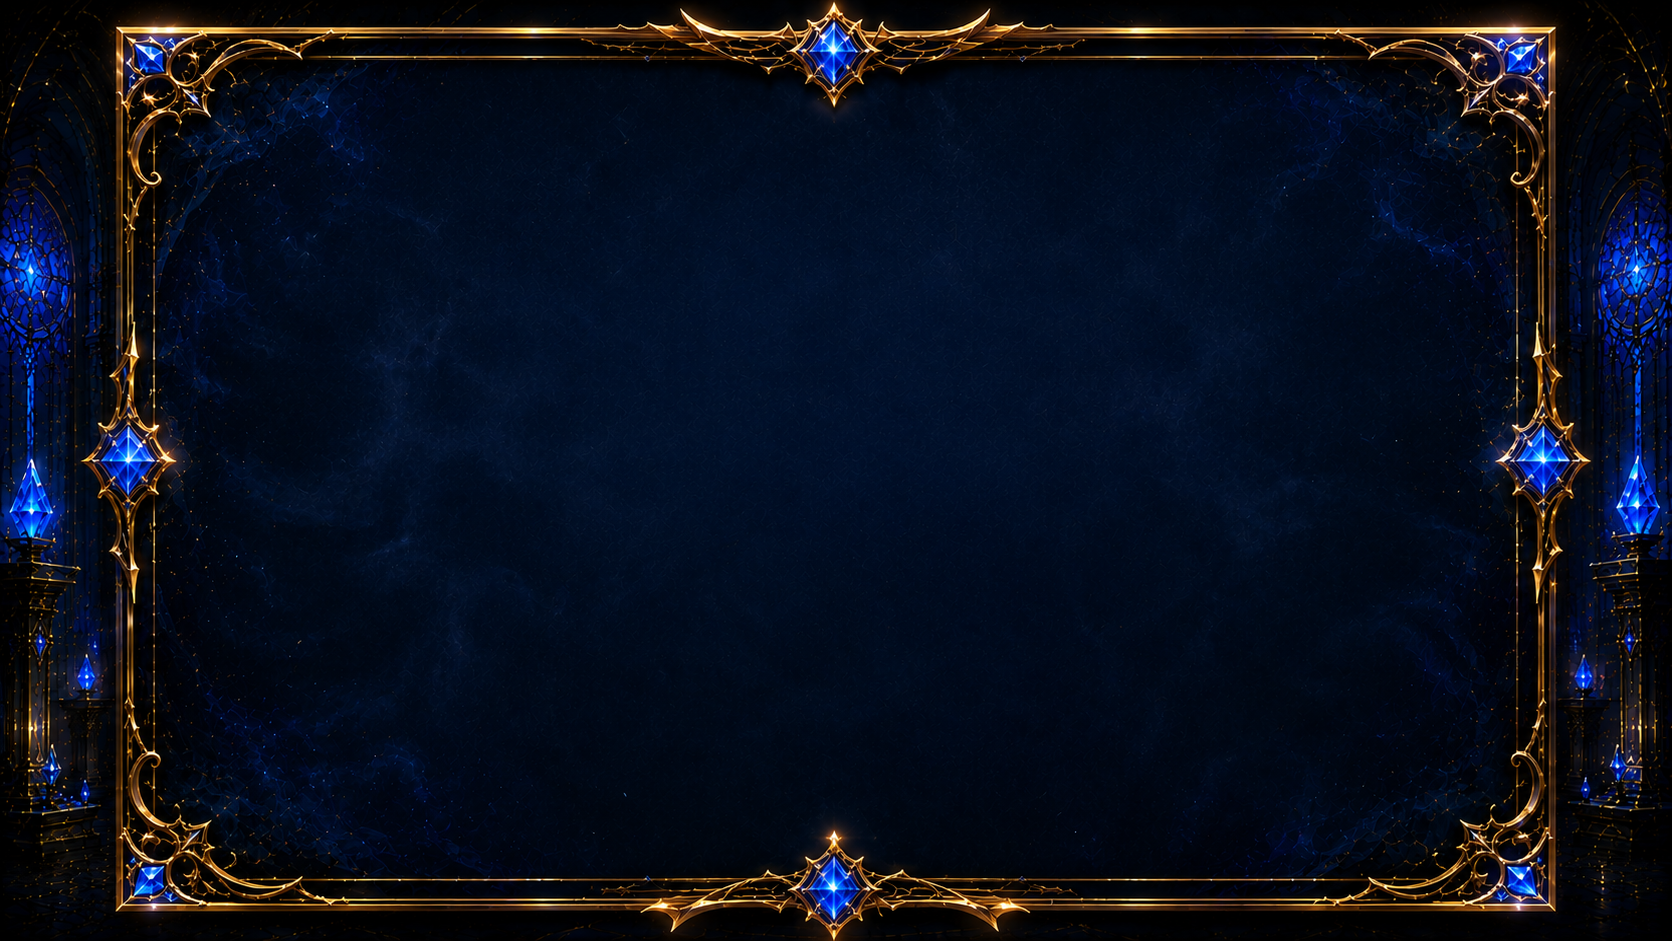
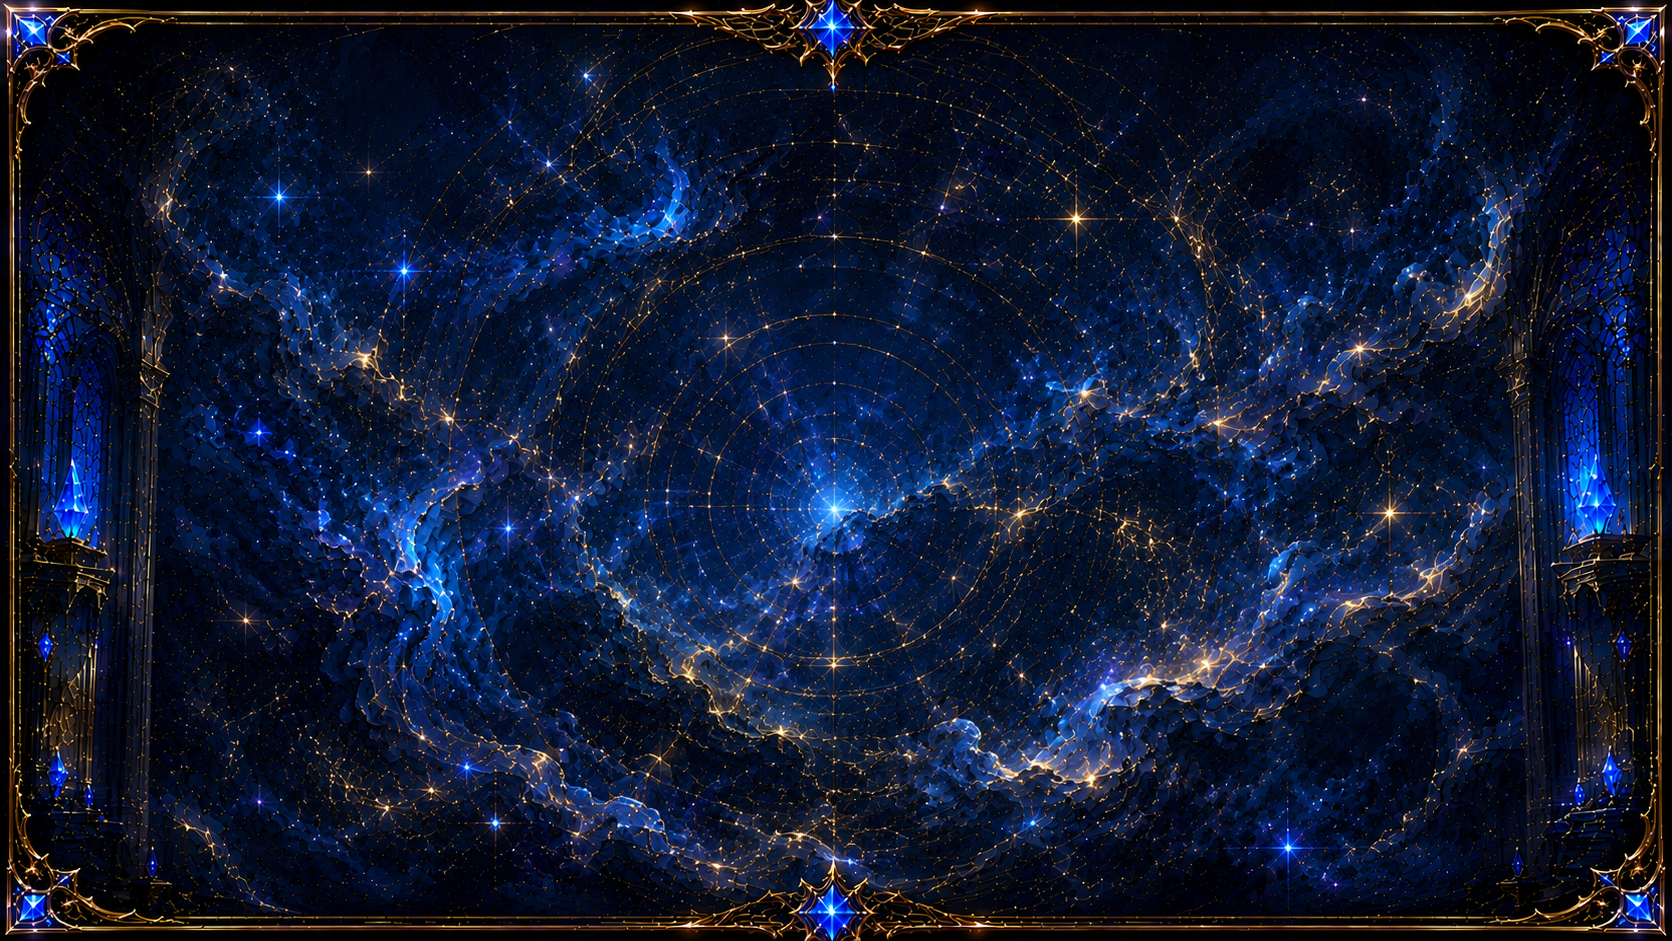
Revamp character selection UI and resource handling
Replace static background and rework character selection rendering and resource management. Loads a new background image (assets/images/characterselect.png) and scales it; builds card textures/sprites and outline boxes dynamically in updateDisplay(), drawing them in render(). Improves memory safety by owning and deleting textures/sprites/boxes, clearing vectors, and creating a safe title placeholder. Updates UI text, luminescence handling, selection/unlock messages (removed emojis), input handling (nav keys update colors; numeric shortcuts removed), and various type/cast fixes and timing checks. Adds onEnter to refresh display and colors, and adjusts debug logging.

diff --git a/src/CharacterSelectionState.cpp b/src/CharacterSelectionState.cpp
@@ -4,64 +4,50 @@
 #include <iostream>
 #include <sstream>
 
-CharacterSelectionState::CharacterSelectionState(Game* gameInstance) 
+CharacterSelectionState::CharacterSelectionState(Game* gameInstance)
     : game(gameInstance), selectedIndex(0), showUnlockMessage(false), messageTimer(0) {
-    
+
     selectedColor = sf::Color::Yellow;
     normalColor = sf::Color::White;
     lockedColor = sf::Color(150, 150, 150);
     unlockedColor = sf::Color(100, 200, 100);
-    
+
     characterManager = new CharacterManager();
     loadCharacters();
-    
+
     sf::Font& font = game->getMainFont();
-    
-    // Load character selection background
+
     backgroundTexture.emplace();
-    if (!backgroundTexture->loadFromFile("assets/images/character_bg.png")) {
-        std::cout << "Failed to load character selection background! Using fallback." << std::endl;
-    } else {
-        backgroundSprite.emplace(*backgroundTexture);
-        sf::Vector2u texSize = backgroundTexture->getSize();
-        backgroundSprite->setScale(
-            sf::Vector2f(
-                1280.f / texSize.x,
-                720.f / texSize.y
-            )
-        );
+    if (!backgroundTexture->loadFromFile("assets/images/characterselect.png")) {
+        std::cout << "Failed to load character selection background!" << std::endl;
     }
-    
-    // Title - commented out to let background show
-    // title = new sf::Text(font, "SELECT YOUR CHAMPION", 48);
-    // title->setFillColor(sf::Color::Yellow);
-    // title->setOutlineThickness(2);
-    // title->setOutlineColor(sf::Color::Black);
-    // title->setPosition(sf::Vector2f(420, 50));
-    title = nullptr;
-    
-    // Luminescence display
-    luminescenceText = new sf::Text(font, "LUMINESCENCE: 1000", 24);
-    luminescenceText->setPosition(sf::Vector2f(50, 680));
+    backgroundSprite.emplace(*backgroundTexture);
+
+    sf::Vector2u texSize = backgroundTexture->getSize();
+    if (texSize.x > 0 && texSize.y > 0) {
+        backgroundSprite->setScale(sf::Vector2f(1280.f / texSize.x, 720.f / texSize.y));
+    }
+
+    // Invisible title placeholder — keeps cleanup() safe with a non-null pointer
+    title = new sf::Text(font, "", 1);
+
+    luminescenceText = new sf::Text(font, "LUMINESCENCE: 0", 24);
+    luminescenceText->setPosition(sf::Vector2f(40, 682));
     luminescenceText->setFillColor(sf::Color(255, 215, 0));
-    
-    // Instructions for number keys
-    instructionText = new sf::Text(font, "PRESS 1-6 TO SELECT CHARACTER  |  U = UNLOCK  |  ESC = BACK", 20);
-    instructionText->setPosition(sf::Vector2f(380, 680));
+
+    instructionText = new sf::Text(font, "<- ->  Navigate  |  ENTER Select  |  U  Unlock  |  ESC  Back", 20);
+    instructionText->setPosition(sf::Vector2f(320, 685));
     instructionText->setFillColor(sf::Color(150, 150, 150));
-    
-    backText = new sf::Text(font, "← BACK (ESC)", 20);
+
+    backText = new sf::Text(font, "BACK (ESC)", 20);
     backText->setPosition(sf::Vector2f(50, 50));
     backText->setFillColor(sf::Color(150, 150, 150));
-    
+
     unlockText = new sf::Text(font, "", 20);
     unlockText->setPosition(sf::Vector2f(400, 650));
     unlockText->setFillColor(sf::Color::Yellow);
-    
-    // Create character display boxes (commented out - using background only)
-    // updateDisplay();
-    
-    std::cout << "CharacterSelectionState created with " << displayCharacters.size() << " characters" << std::endl;
+
+    std::cout << "CharacterSelectionState created" << std::endl;
 }
 
 CharacterSelectionState::~CharacterSelectionState() {
@@ -72,24 +58,87 @@ CharacterSelectionState::~CharacterSelectionState() {
 void CharacterSelectionState::loadCharacters() {
     displayCharacters = characterManager->getUnlockedCharacters();
     auto locked = characterManager->getLockedCharacters();
-    
     for (auto& c : locked) {
         displayCharacters.push_back(c);
     }
 }
 
 void CharacterSelectionState::updateDisplay() {
-    // DISABLED - Using background image instead of drawing boxes
-    // This function is kept empty to prevent rendering boxes
+    for (auto* box : characterBoxes) delete box;
+    characterBoxes.clear();
+    for (auto* sprite : cardSprites) delete sprite;
+    for (auto* texture : cardTextures) delete texture;
+    cardSprites.clear();
+    cardTextures.clear();
+
+    sf::Font& font = game->getMainFont();
+
+    const float startX = 177.f;
+    const float startY = 85.f;
+    const float boxWidth = 207.f;
+    const float boxHeight = 270.f;
+    const float hSpacing = 153.f;
+    const float vSpacing = 22.f;
+
+    for (size_t i = 0; i < displayCharacters.size(); i++) {
+        int row = static_cast<int>(i) / 3;
+        int col = static_cast<int>(i) % 3;
+        float x = startX + col * (boxWidth + hSpacing);
+        float y = startY + row * (boxHeight + vSpacing);
+
+        Character& c = displayCharacters[i];
+
+        std::string imagePath = "assets/images/cards/" + c.spriteName;
+        sf::Texture* cardTexture = new sf::Texture();
+
+        if (!cardTexture->loadFromFile(imagePath)) {
+            std::cout << "Failed to load card: " << imagePath << std::endl;
+            delete cardTexture; // prevent leak — texture not pushed to owner vector
+        } else {
+            sf::Sprite* sprite = new sf::Sprite(*cardTexture);
+            sprite->setPosition(sf::Vector2f(x, y));
+            sf::Vector2u texSize = cardTexture->getSize();
+            sprite->setScale(sf::Vector2f(
+                boxWidth  / static_cast<float>(texSize.x),
+                boxHeight / static_cast<float>(texSize.y)
+            ));
+            cardTextures.push_back(cardTexture);
+            cardSprites.push_back(sprite);
+        }
+
+        sf::RectangleShape* box = new sf::RectangleShape(sf::Vector2f(boxWidth, boxHeight));
+        box->setPosition(sf::Vector2f(x, y));
+        box->setFillColor(sf::Color(0, 0, 0, 0));
+
+        if (c.isUnlocked) {
+            box->setOutlineColor(i == selectedIndex
+                ? sf::Color(255, 215, 0)
+                : sf::Color(150, 100, 50));
+        } else {
+            box->setOutlineColor(sf::Color(80, 65, 55));
+        }
+        box->setOutlineThickness(i == selectedIndex ? 4.f : 2.f);
+        characterBoxes.push_back(box);
+    }
+
+    // Update luminescence once after all cards are processed
+    int lum = characterManager->getTotalLuminescence();
+    luminescenceText->setString("LUMINESCENCE: " + std::to_string(lum));
 }
 
 void CharacterSelectionState::updateColors() {
-    // DISABLED - No boxes to update
+    for (size_t i = 0; i < characterBoxes.size(); i++) {
+        bool selected = (i == static_cast<size_t>(selectedIndex));
+        characterBoxes[i]->setOutlineThickness(selected ? 4.f : 2.f);
+        characterBoxes[i]->setOutlineColor(selected
+            ? sf::Color(255, 215, 0)
+            : sf::Color(150, 100, 50));
+    }
 }
 
 void CharacterSelectionState::selectCharacter() {
-    if (selectedIndex >= (int)displayCharacters.size()) return;
-    
+    if (selectedIndex >= static_cast<int>(displayCharacters.size())) return;
+
     Character& c = displayCharacters[selectedIndex];
     if (c.isUnlocked) {
         characterManager->selectCharacter(c.id);
@@ -97,21 +146,22 @@ void CharacterSelectionState::selectCharacter() {
         std::cout << "Selected character: " << c.name << std::endl;
         game->switchToTraining();
     } else {
-        showMessage("⚠ Character locked! Press U to unlock (Cost: " + std::to_string(c.unlockCost) + " LUM)");
+        showMessage("Character locked! Press U to unlock (Cost: "
+            + std::to_string(c.unlockCost) + " LUM)");
     }
 }
 
 void CharacterSelectionState::unlockCurrentCharacter() {
-    if (selectedIndex >= (int)displayCharacters.size()) return;
-    
+    if (selectedIndex >= static_cast<int>(displayCharacters.size())) return;
+
     Character& c = displayCharacters[selectedIndex];
     if (!c.isUnlocked) {
         if (characterManager->unlockCharacter(c.id)) {
-            showMessage("✅ UNLOCKED! " + c.name + " is now available!");
+            showMessage("UNLOCKED! " + c.name + " is now available!");
             loadCharacters();
             updateDisplay();
         } else {
-            showMessage("❌ Not enough Luminescence! Need " + std::to_string(c.unlockCost));
+            showMessage("Not enough Luminescence! Need " + std::to_string(c.unlockCost));
         }
     }
 }
@@ -125,33 +175,17 @@ void CharacterSelectionState::showMessage(const std::string& msg) {
 
 void CharacterSelectionState::handleInput(const sf::Event& event) {
     if (const auto* keyPressed = event.getIf<sf::Event::KeyPressed>()) {
-        // Number keys 1-6 for character selection
-        int keyNum = -1;
-        switch (keyPressed->code) {
-            case sf::Keyboard::Key::Num1: keyNum = 0; break;
-            case sf::Keyboard::Key::Num2: keyNum = 1; break;
-            case sf::Keyboard::Key::Num3: keyNum = 2; break;
-            case sf::Keyboard::Key::Num4: keyNum = 3; break;
-            case sf::Keyboard::Key::Num5: keyNum = 4; break;
-            case sf::Keyboard::Key::Num6: keyNum = 5; break;
-            default: break;
-        }
-        
-        if (keyNum >= 0 && keyNum < (int)displayCharacters.size()) {
-            selectedIndex = keyNum;
-            selectCharacter();
-            return;
-        }
-        
         switch (keyPressed->code) {
             case sf::Keyboard::Key::Left:
                 if (selectedIndex > 0) {
                     selectedIndex--;
+                    updateColors();
                 }
                 break;
             case sf::Keyboard::Key::Right:
-                if (selectedIndex < (int)displayCharacters.size() - 1) {
+                if (selectedIndex < static_cast<int>(displayCharacters.size()) - 1) {
                     selectedIndex++;
+                    updateColors();
                 }
                 break;
             case sf::Keyboard::Key::Enter:
@@ -172,7 +206,7 @@ void CharacterSelectionState::handleInput(const sf::Event& event) {
 void CharacterSelectionState::update(float deltaTime) {
     if (showUnlockMessage) {
         messageTimer -= deltaTime;
-        if (messageTimer <= 0) {
+        if (messageTimer <= 0.f) {
             showUnlockMessage = false;
             unlockText->setString("");
         }
@@ -180,38 +214,43 @@ void CharacterSelectionState::update(float deltaTime) {
 }
 
 void CharacterSelectionState::render(sf::RenderWindow& window) {
-    // Draw only background and UI text
-    if (backgroundSprite) {
-        window.draw(*backgroundSprite);
-    } else {
-        window.clear(sf::Color(20, 15, 40));
-    }
-    
-    // Draw UI text elements only (no boxes)
+    if (backgroundSprite) window.draw(*backgroundSprite);
+
+    if (title) window.draw(*title);
+
+    for (auto* sprite : cardSprites) window.draw(*sprite);
+    for (auto* box   : characterBoxes) window.draw(*box);
+
     if (luminescenceText) window.draw(*luminescenceText);
-    if (instructionText) window.draw(*instructionText);
-    if (backText) window.draw(*backText);
+    if (instructionText)  window.draw(*instructionText);
+    if (backText)         window.draw(*backText);
     if (unlockText && showUnlockMessage) window.draw(*unlockText);
 }
 
 void CharacterSelectionState::cleanup() {
-    if (title) delete title;
+    delete title;
     delete luminescenceText;
     delete instructionText;
     delete backText;
     delete unlockText;
-    for (auto* text : characterNames) delete text;
-    for (auto* text : characterStats) delete text;
-    for (auto* box : characterBoxes) delete box;
+
+    for (auto* box     : characterBoxes) delete box;
+    for (auto* sprite  : cardSprites)    delete sprite;
+    for (auto* texture : cardTextures)   delete texture;
+
+    characterBoxes.clear();
+    cardSprites.clear();
+    cardTextures.clear();
     characterNames.clear();
     characterStats.clear();
-    characterBoxes.clear();
 }
 
 void CharacterSelectionState::onEnter() {
     std::cout << "Entered Character Selection State" << std::endl;
     loadCharacters();
     selectedIndex = 0;
+    updateDisplay();
+    updateColors();
 }
 
 void CharacterSelectionState::onExit() {
